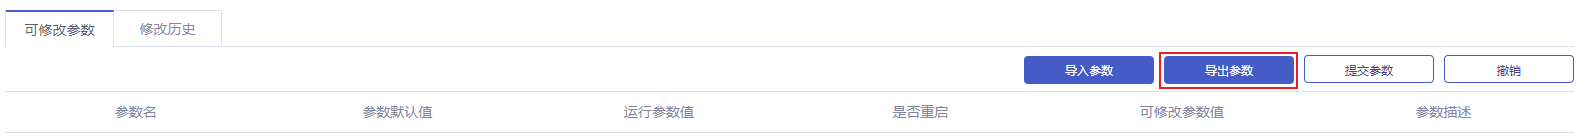
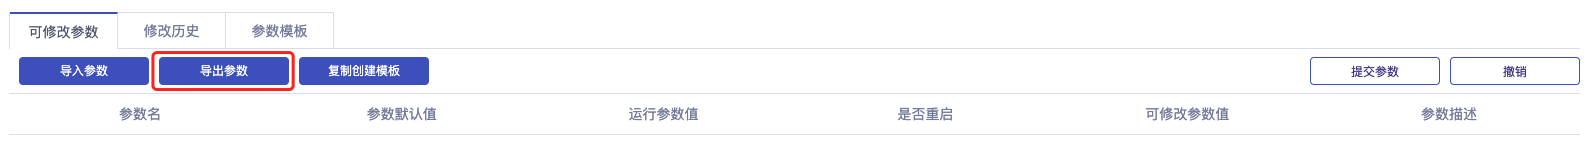
*fix:替换截图

diff --git a/数据库服务/MySQL/00.产品发布记录.md b/数据库服务/MySQL/00.产品发布记录.md
@@ -7,23 +7,23 @@ article: true
 
 ## 2022年7月
 
-| 变更项 | 说明           | 发布时间   | 发布地域 | 相关文档 |
-| :----- | :------------- | :--------- | :------- | :------- |
-| 可用区 | 达拉斯I上线    | 2022-07-11 | 达拉斯I  | -        |
-| 慢日志 | 支持下载慢日志 | 2022-07-20 | 全部     | -        |
+| 变更项 | 说明           | 发布时间   | 发布地域 | 相关文档                                     |
+| :----- | :------------- | :--------- | :------- | :------------------------------------------- |
+| 可用区 | 达拉斯I上线    | 2022-07-11 | 达拉斯I  | -                                            |
+| 慢日志 | 支持下载慢日志 | 2022-07-20 | 全部     | [慢日志下载](./04.操作指南/10.慢日志下载.md) |
 
 ## 2022年6月
 
-| 变更项   | 说明         | 发布时间   | 发布地域 | 相关文档 |
-| :------- | :----------- | :--------- | :------- | :------- |
-| 用户权限 | 支持参数模版 | 2022-06-16 | 全部     | -        |
+| 变更项   | 说明         | 发布时间   | 发布地域 | 相关文档                                 |
+| :------- | :----------- | :--------- | :------- | :--------------------------------------- |
+| 用户权限 | 支持参数模版 | 2022-06-16 | 全部     | [参数配置](./04.操作指南/06.参数配置.md) |
 
 ## 2022年5月
 
-| 变更项   | 说明                           | 发布时间   | 发布地域 | 相关文档 |
-| :------- | :----------------------------- | :--------- | :------- | :------- |
-| 创建页   | 支持自定义端口                 | 2022-05-25 | 全部     | -        |
-| 用户权限 | 普通账号支持启用全局create权限 | 2022-05-31 | 全部     | -        |
+| 变更项   | 说明                           | 发布时间   | 发布地域 | 相关文档                                             |
+| :------- | :----------------------------- | :--------- | :------- | :--------------------------------------------------- |
+| 创建页   | 支持自定义端口                 | 2022-05-25 | 全部     | -                                                    |
+| 用户权限 | 普通账号支持启用全局create权限 | 2022-05-31 | 全部     | [创建账号](./04.操作指南/04.账号管理/00.创建账号.md) |
 
 ## 2022年4月
 

diff --git a/数据库服务/MySQL/04.操作指南/10.慢日志下载.md b/数据库服务/MySQL/04.操作指南/10.慢日志下载.md
@@ -6,7 +6,7 @@ article: true
 ---
 
 
-您可以在控制台下载云数据库 MySQL 的慢日志。
+您可以在控制台下载云数据库 MySQL 的慢日志文件。
 
 > **注意**：
 >
@@ -17,3 +17,16 @@ article: true
 
 ## 慢日志下载
 
+1. 进入 [云数据库 MySQL 控制台](https://console.capitalonline.net/dbinstances)，点击实例的名称进入到实例管理页面，点击 **更多** > **慢日志下载**，或从更多操作中选择 **慢日志下载** 进入。
+
+2. 在日志下载页面中，点击 **下载日志** 。
+
+   ![parameter_list](./../pic/slow_query1.png)
+
+3. 在弹出的窗口中，选择要下载的慢日志开始时间，选择完成后，点击 **确认**。
+
+   ![parameter_list](./../pic/slow_query2.png)
+
+4. 待下载任务状态变为已完成，点击操作中的 **下载** 即可下载慢日志文件。
+
+   ![parameter_list](./../pic/slow_query3.png)

diff --git a/数据库服务/MySQL/04.操作指南/06.参数配置.md b/数据库服务/MySQL/04.操作指南/06.参数配置.md
@@ -68,8 +68,14 @@ article: true
 ## 参数模版
 
 1. 进入 [云数据库 MySQL 控制台](https://console.capitalonline.net/dbinstances)，点击实例的名称进入到实例管理页面，点击 **参数配置** 查看 **可修改参数列表**。
+
 2. 单击 **复制创建模版**，在弹出的窗口设置模版名称与描述，点击 **确认** 后，即可成功创建模版。
+
+   ![parameter_history](./../pic/parameter_template1.png)
+
 3. 点击 **参数模版** 可查看参数模版列表，支持查看详情、应用至其他实例和删除模版。
+
+   ![parameter_history](./../pic/parameter_template2.png)
 
 ## 相关OpenAPI
 
